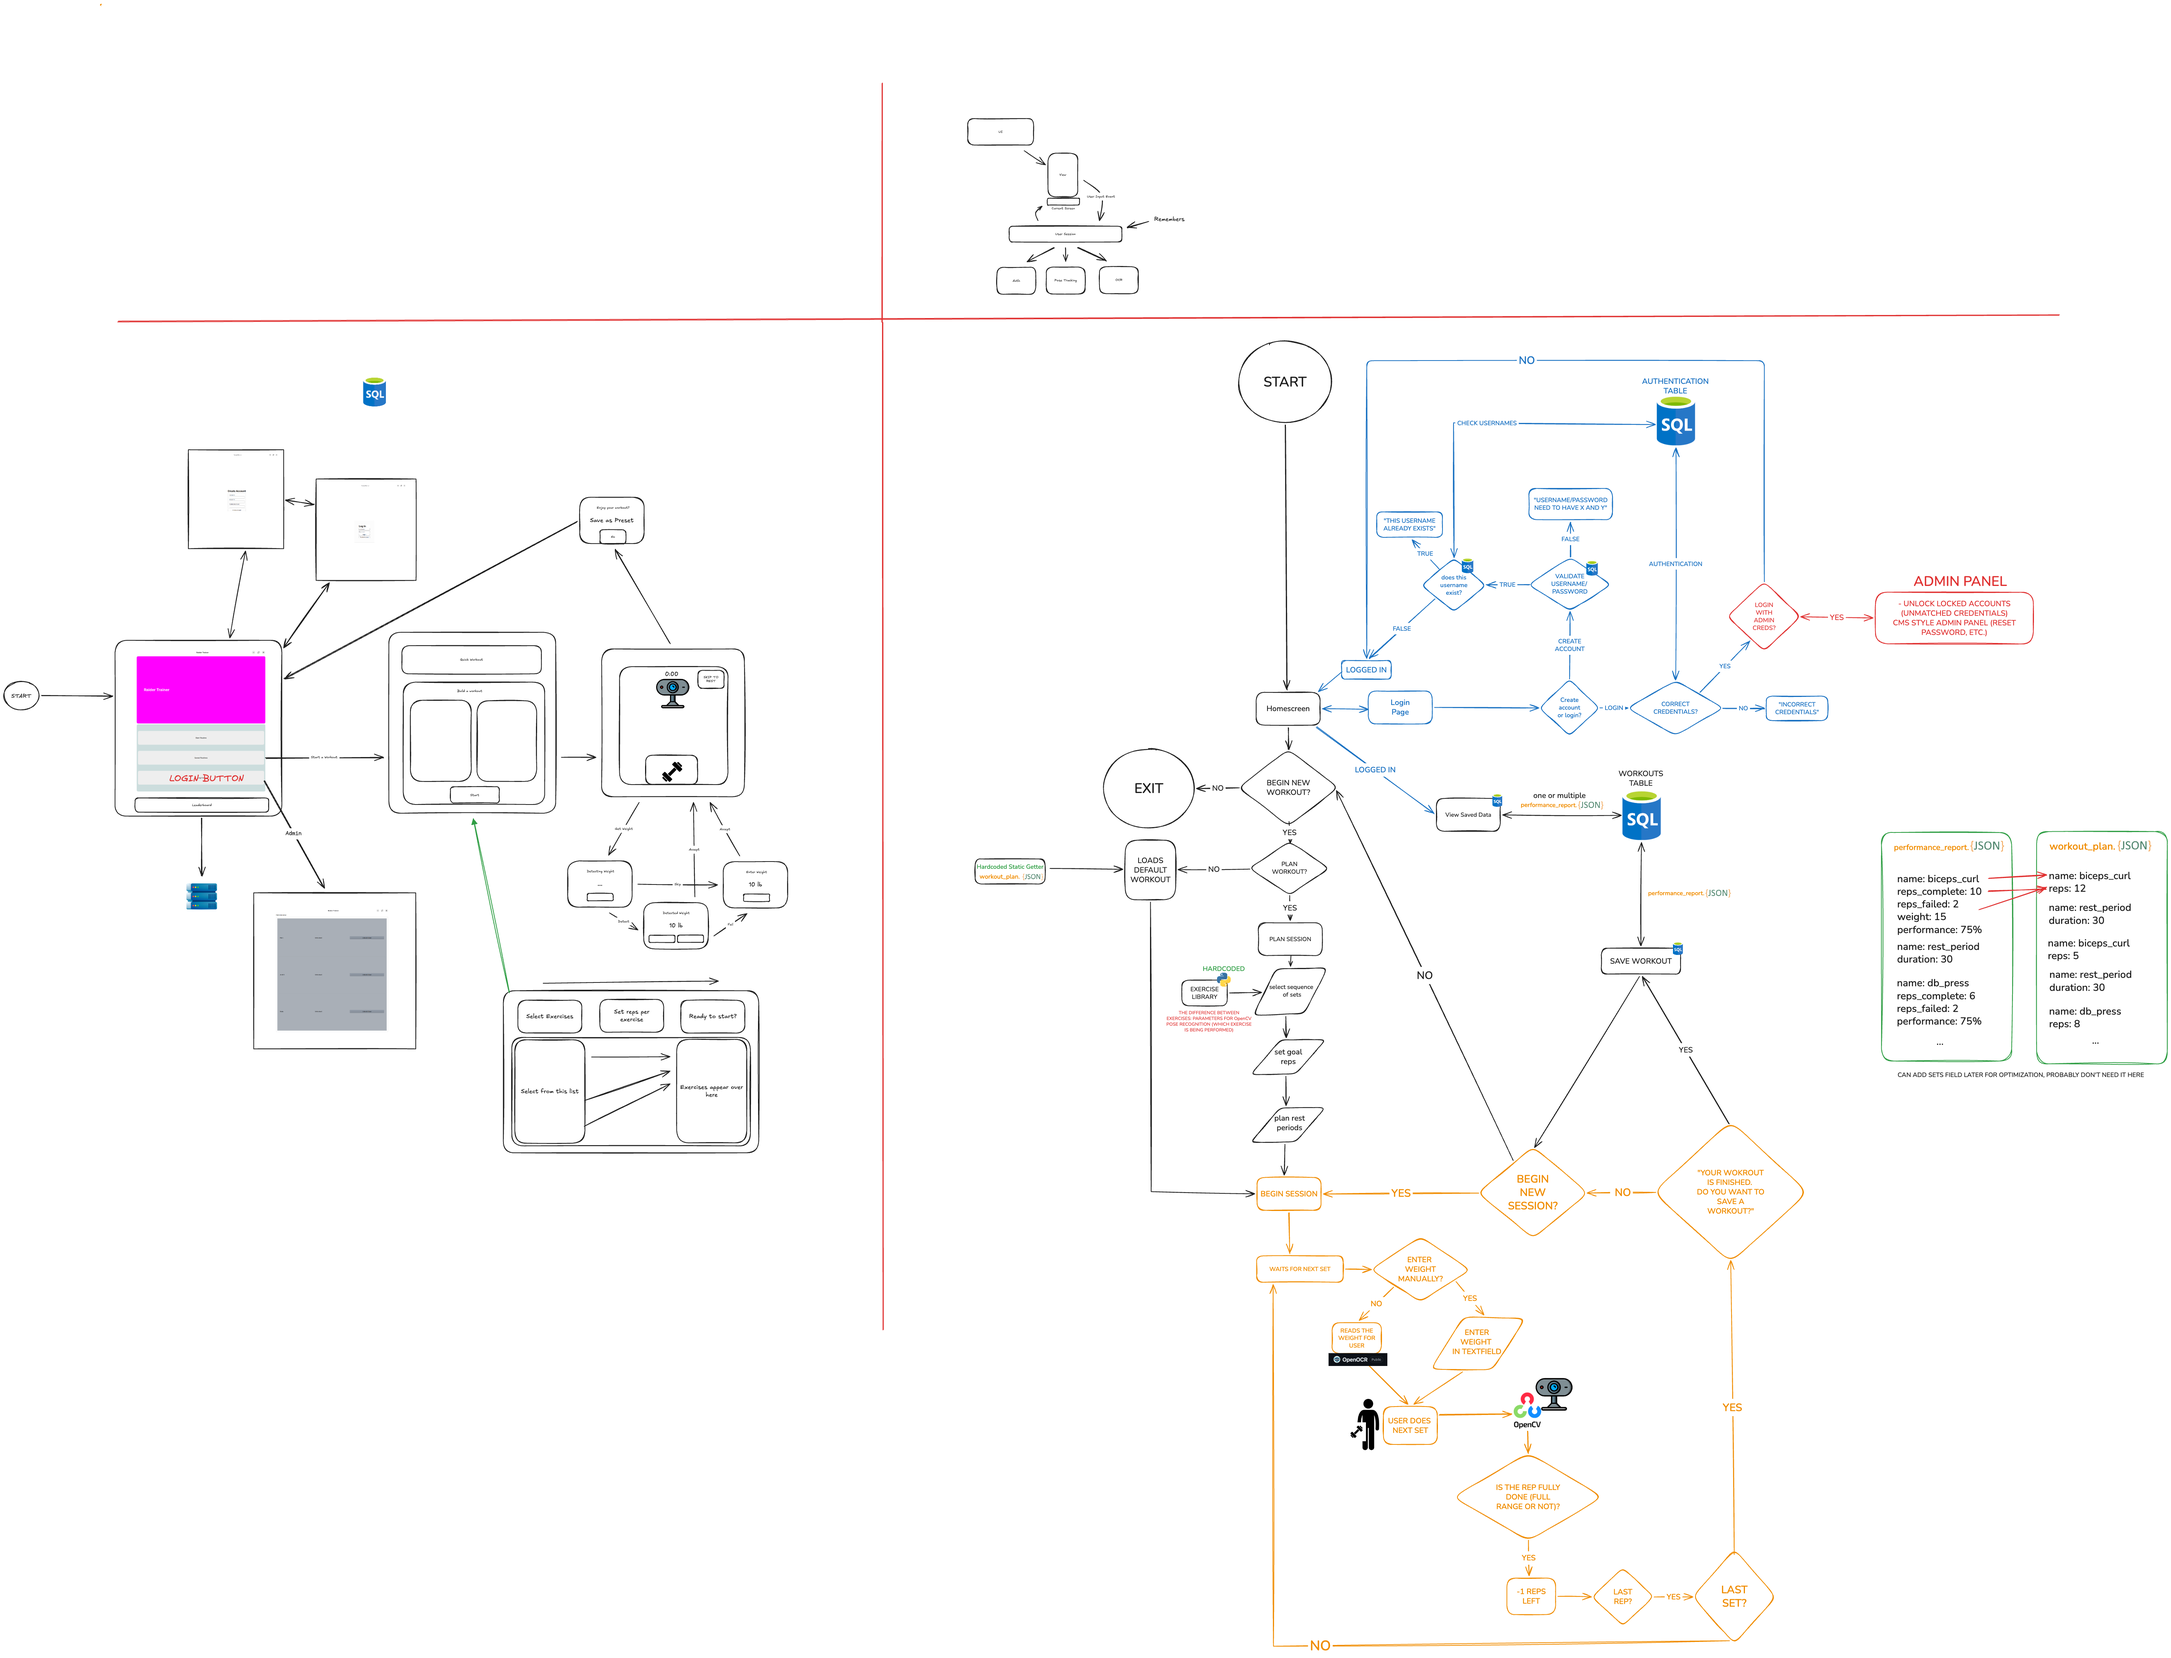
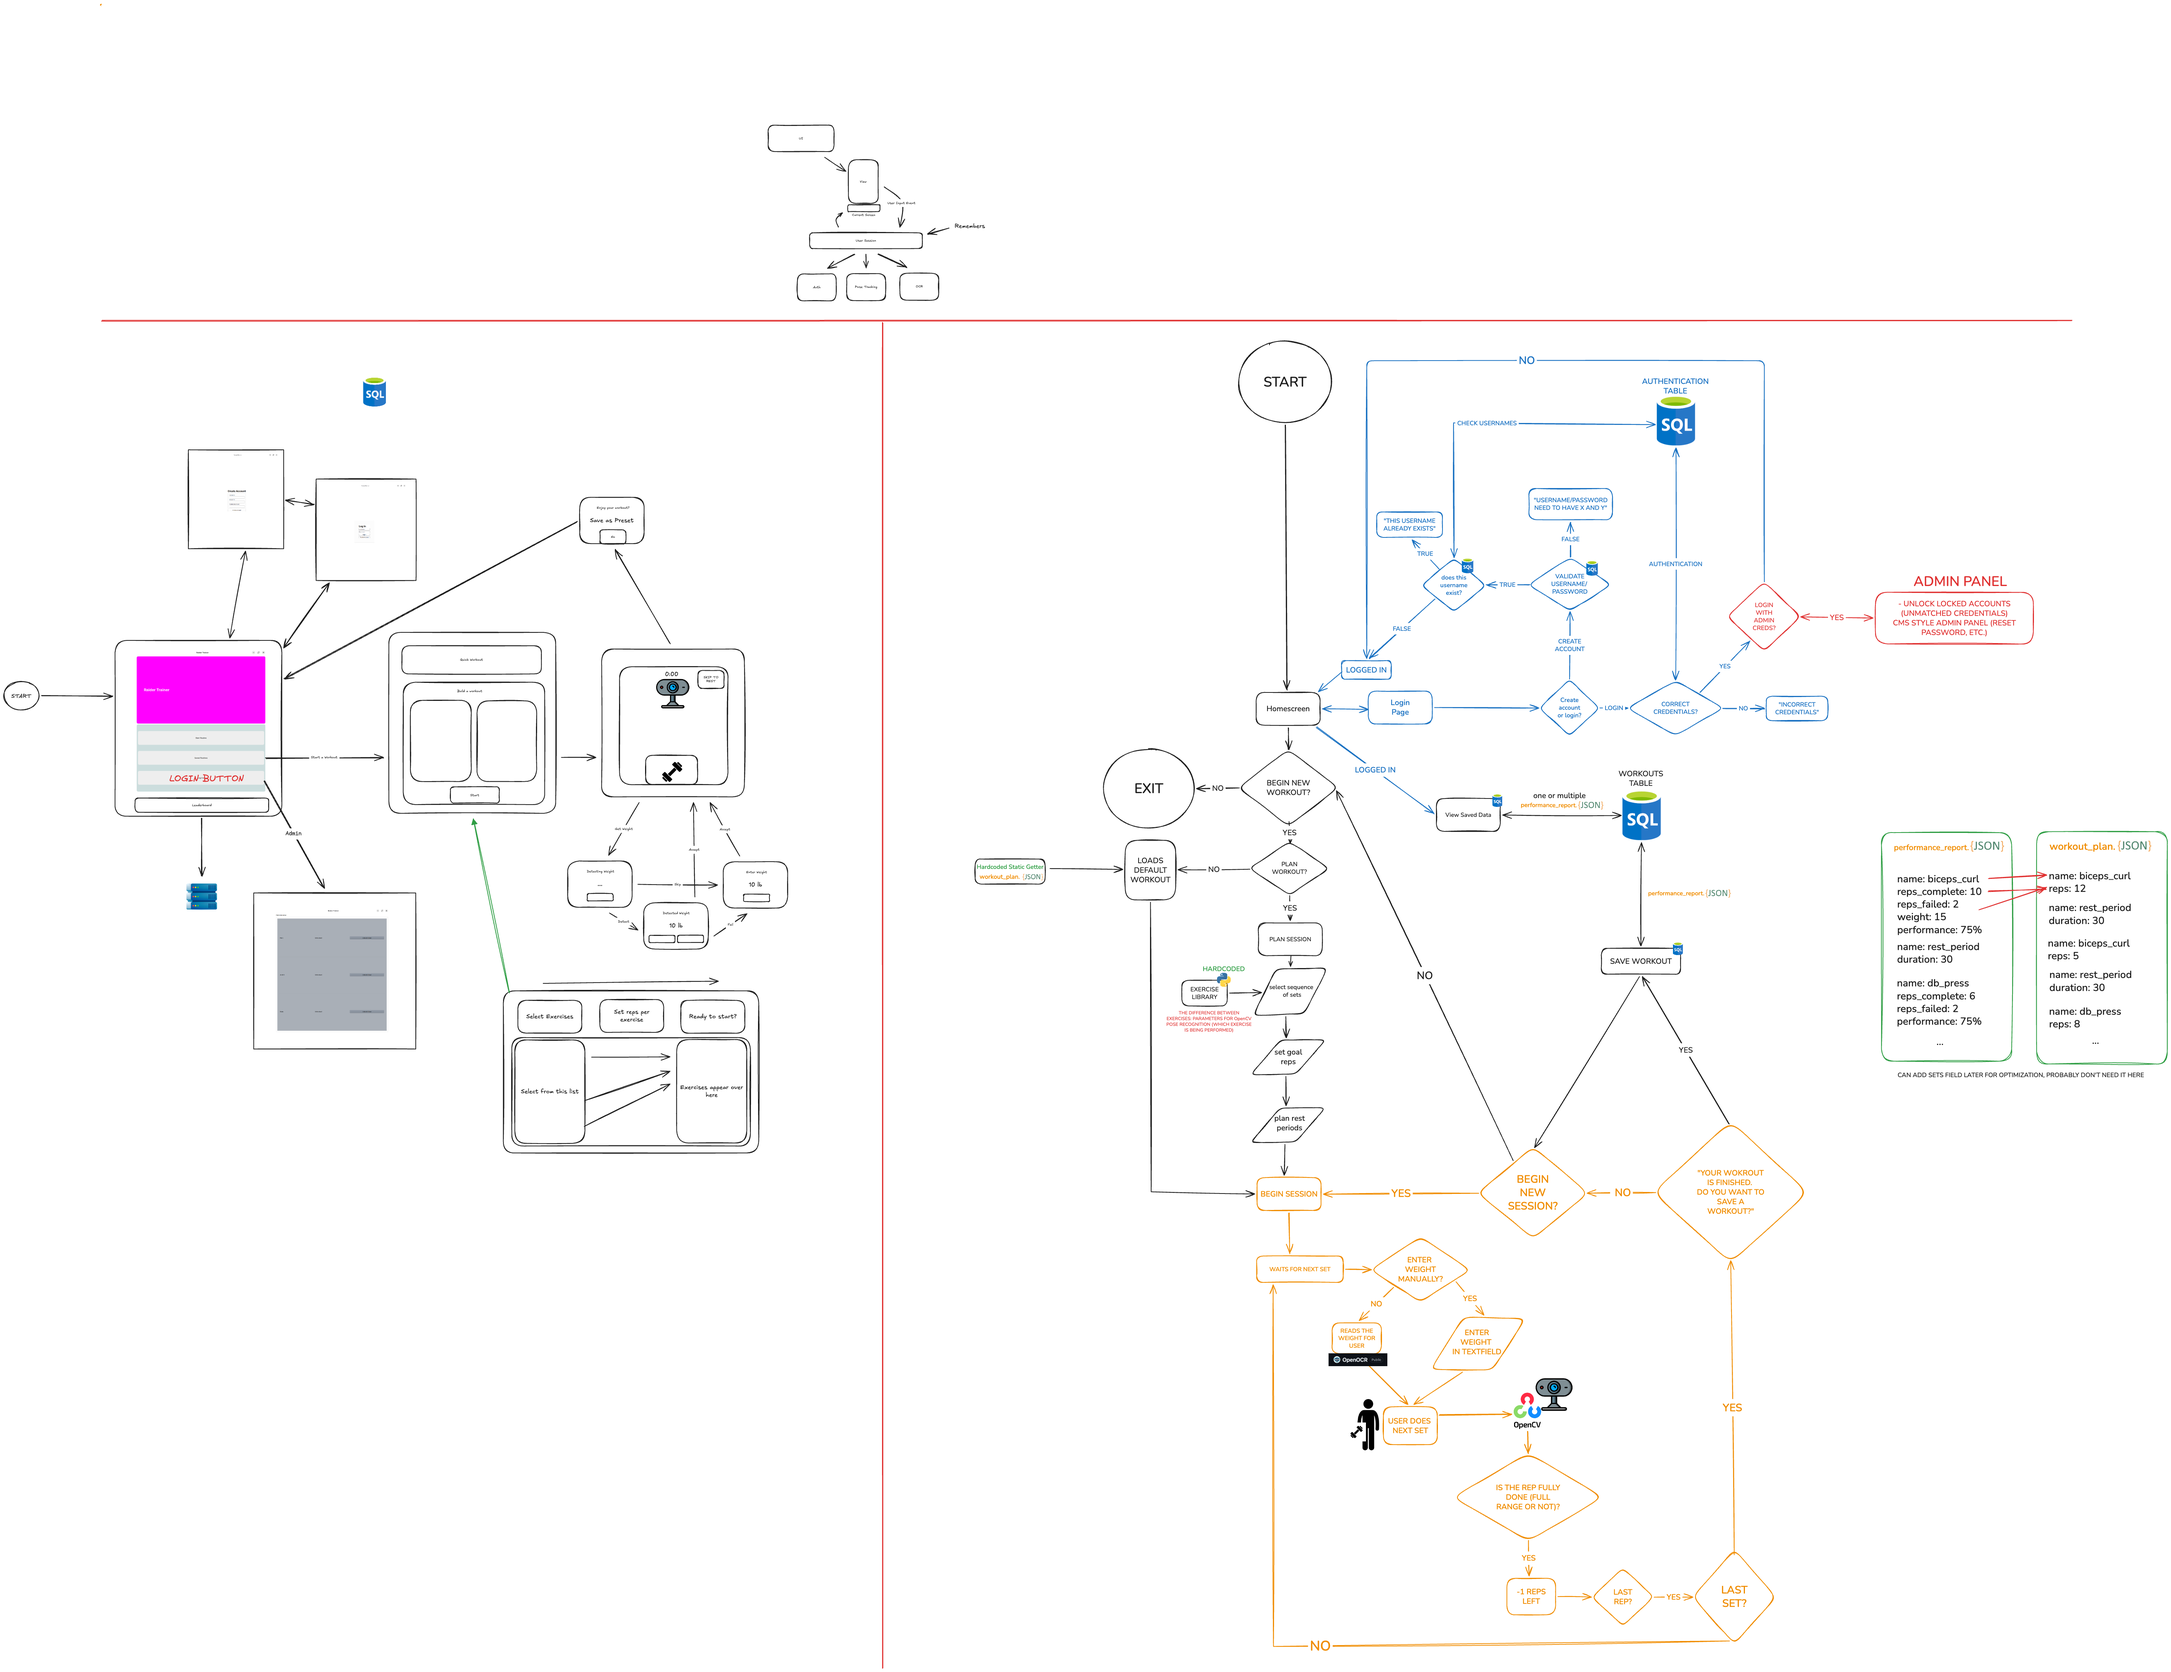
Update Weekly Report for 9/21

diff --git a/reports.js b/reports.js
@@ -76,11 +76,27 @@ const REPORTS = [
     },
     {
         week: "2026-09-21",
+        meetings: 1,
+        minutes: 120,
+        attendees: "9/23 – " + DEFAULT_ATTENDEES,
         image: {
             src: "docs/images/whiteboard-meeting.png",
             alt: "Whiteboard sketches from the team's app-flow and UI planning meeting",
         },
-        // Meetings, work completed, and planned work are coming soon.
+        completed: [
+            "Had a collaborative whiteboard meeting to outline the app and to help finalize sub-requirements for the app.",
+            "Added whiteboard meeting results to website.",
+            "Created a flowchart for the full app functionality.",
+            "Finished the requirements sheet, including work commitments and priorities.",
+            "Created markdown version of the requirements sheet for GitHub.",
+            "Created and assigned GitHub issues and sub-issues for each member based on requirement tasks.",
+            "Developed the admin panel screen and workout building screen.",
+            "Developed the home screen.",
+        ],
+        planned: [
+            "Start working on sub-issues for the authentication system in a test terminal environment.",
+            "Look into adding project requirements on the website, possibly pull some information from the requirements sheet to the website.",
+        ],
     },
 ];
 
